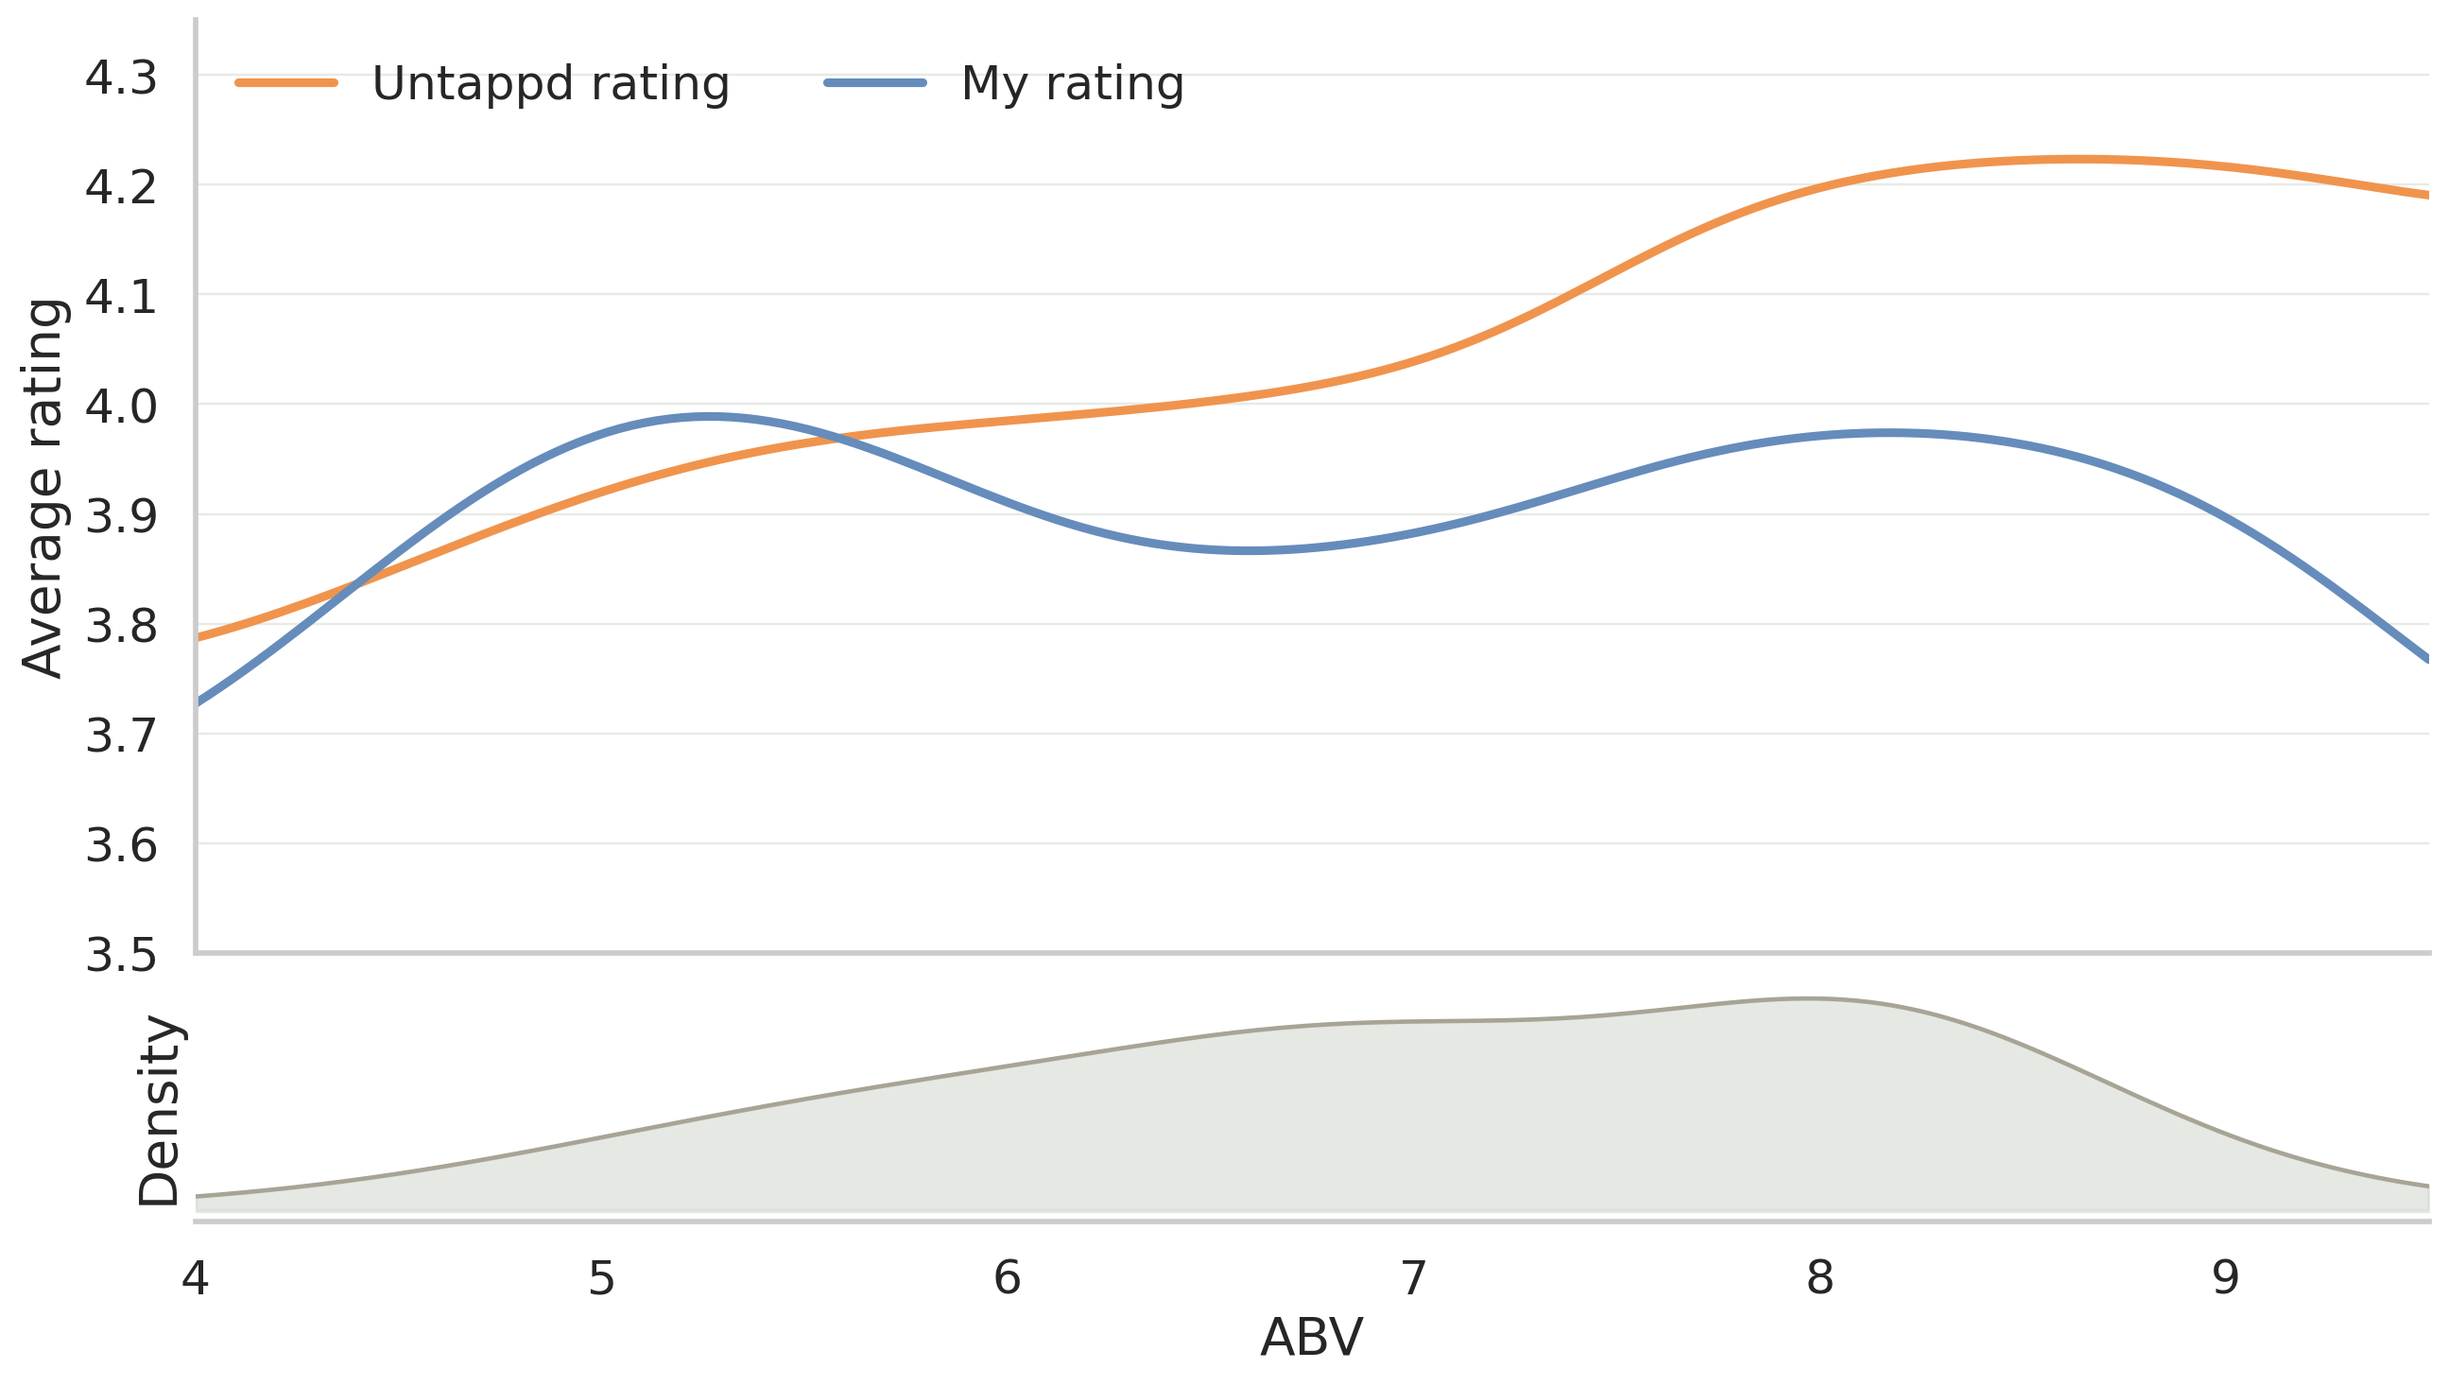
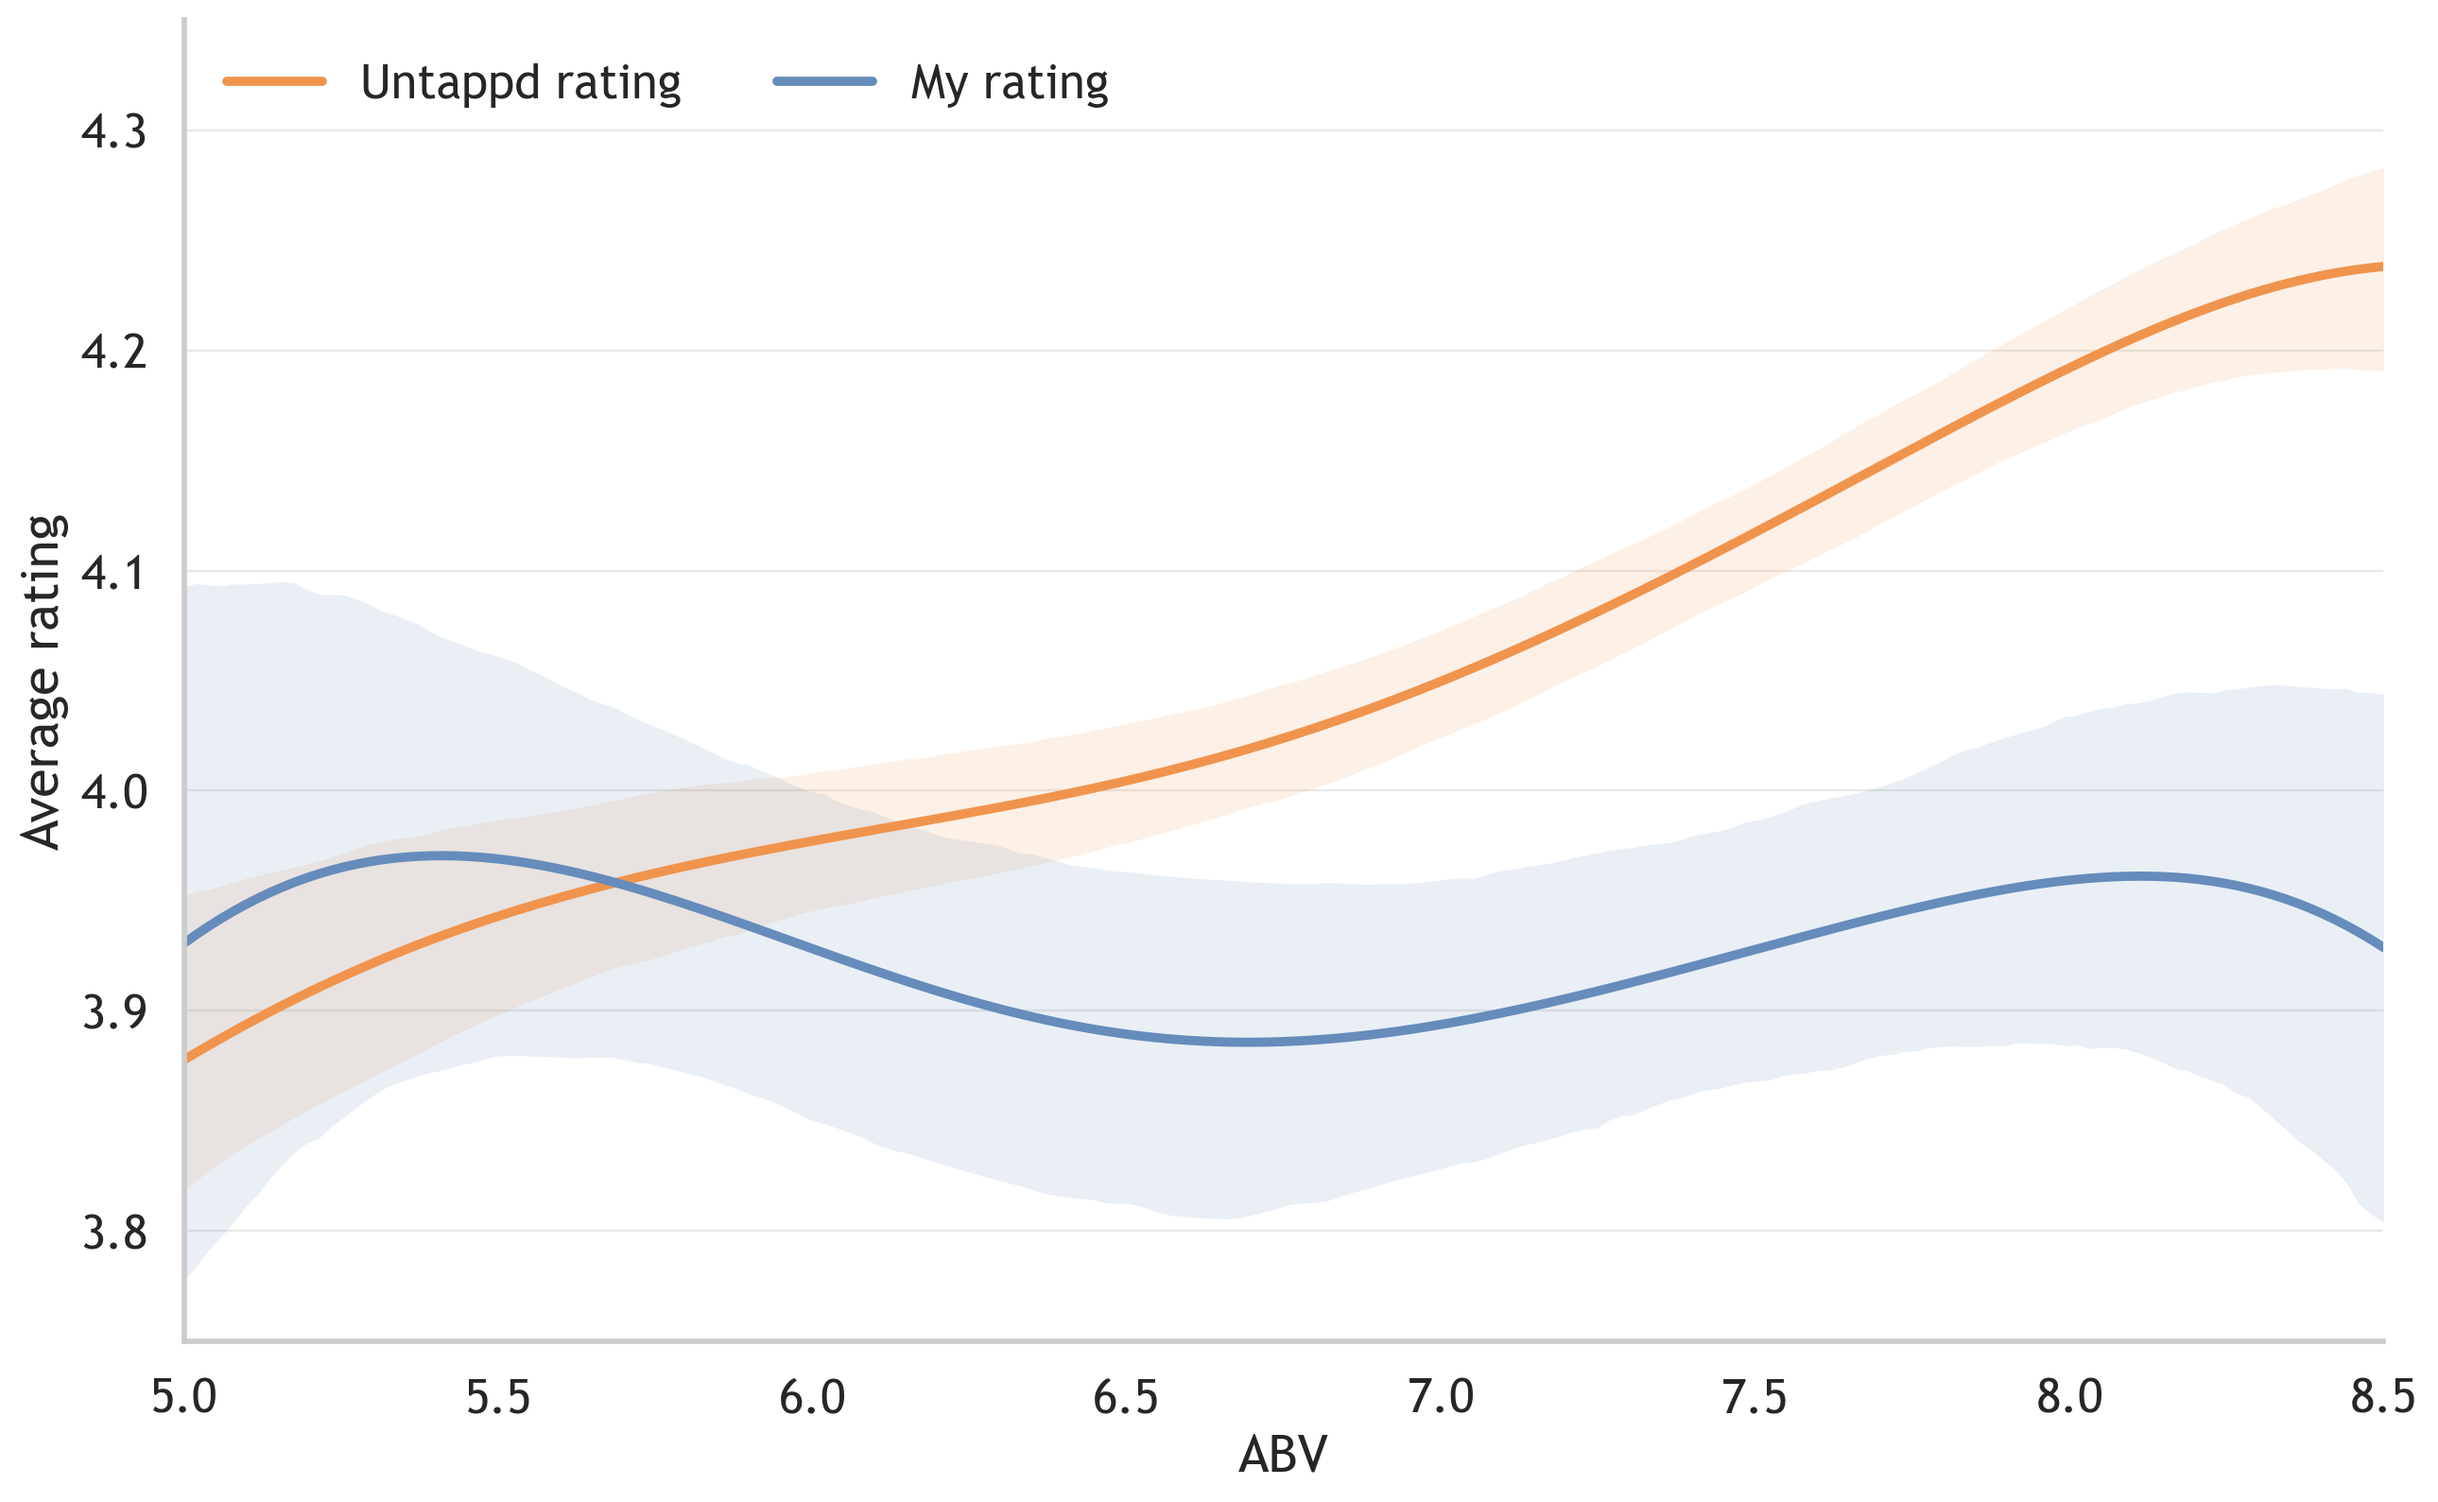
updates

diff --git a/scripts/main.js b/scripts/main.js
@@ -586,13 +586,22 @@ async function initializeMap() {
 
     const map = L.map('map', { zoomControl: false, maxZoom: 20 });
     L.control.zoom({ position: 'topright' }).addTo(map);
+
+    const cartoBasemapKey = 'cb1_4l0f_1_ec9eddce62f2d90a023a36a4';
+    const cartoBasemapUrl = (style) =>
+        `https://basemaps.cartocdn.com/rastertiles/${style}/{z}/{x}/{y}{r}.png?key=${cartoBasemapKey}`;
+
     L.tileLayer(
-        'https://basemaps.cartocdn.com/rastertiles/light_all/{z}/{x}/{y}{r}.png?key=cb1_4l0f_1_ec9eddce62f2d90a023a36a4',
+        cartoBasemapUrl('light_nolabels'),
         {
             maxZoom: 20,
             attribution: '&copy; <a href="https://www.openstreetmap.org/copyright">OpenStreetMap</a> contributors &copy; <a href="https://carto.com/attributions">CARTO</a>'
         }
     ).addTo(map);
+    L.tileLayer(cartoBasemapUrl('light_only_labels'), {
+        minZoom: 6,
+        maxZoom: 20
+    }).addTo(map);
     map.setView([34.8, -96], 4);
 
     const customIconPizza = L.icon({

diff --git a/html/charts.html b/html/charts.html
@@ -54,8 +54,7 @@
             <h2 id="abv-premium-title">The Untappd ABV Premium</h2>
           </header>
           <figure class="analysis-figure">
-            <img src="../images/hoppy_ratings_by_abv.png" alt="Kernel-smoothed personal and Untappd average ratings by alcohol by volume, with the distribution of rated beer strengths" />
-            <figcaption>Kernel-smoothed averages for all hop-forward beers (IPAs and Pale Ales). The density panel shows where observations are concentrated; estimates are less stable at the edges.</figcaption>
+            <img src="../images/hoppy_ratings_by_abv.png" alt="" />
           </figure>
         </section>
 

diff --git a/scripts/sync_untappd_content.py b/scripts/sync_untappd_content.py
@@ -93,7 +93,10 @@ MIN_BEERS_FOR_VORB = 3
 MIN_STYLE_BEERS_FOR_VORB = 2
 MIN_BEERS_FOR_RATING_DIFFERENCE = 15
 VORB_REPLACEMENT_RATING = 3.75
-ABV_KERNEL_BANDWIDTH = 0.52
+ABV_LOCAL_LINEAR_BANDWIDTH = 0.70
+ABV_DISPLAY_QUANTILES = (0.05, 0.95)
+ABV_BOOTSTRAP_DRAWS = 1_000
+ABV_BOOTSTRAP_SEED = 20261014
 GEOCODING_DELAY_SECONDS = 0.25
 
 BEER_NAME_CORRECTIONS = {
@@ -116,7 +119,6 @@ C_BLUE = "xkcd:faded blue"
 C_ORANGE = "xkcd:faded orange"
 C_GREY = "xkcd:charcoal grey"
 C_LIGHT_GREY = "xkcd:light grey"
-C_MID_GREY = "xkcd:greyish"
 C_BG = "none"
 
 sns.set_theme(style="whitegrid", context="talk")
@@ -1045,57 +1047,118 @@ def select_hoppy_beers(beers: pd.DataFrame) -> pd.DataFrame:
     return hoppy
 
 
-def gaussian_kernel_mean(
+def gaussian_local_linear_mean(
     x: np.ndarray, y: np.ndarray, grid: np.ndarray, bandwidth: float
-) -> tuple[np.ndarray, np.ndarray]:
-    weights = np.exp(-((grid[:, None] - x[None, :]) ** 2) / (2 * bandwidth**2))
-    smoothed = weights @ y / weights.sum(axis=1)
-    density = weights.sum(axis=1) / (
-        len(x) * bandwidth * np.sqrt(2 * np.pi)
+) -> np.ndarray:
+    offsets = x[None, :] - grid[:, None]
+    weights = np.exp(-(offsets**2) / (2 * bandwidth**2))
+    weight_sum = weights.sum(axis=1)
+    weighted_offset_sum = (weights * offsets).sum(axis=1)
+    weighted_offset_squared_sum = (weights * offsets**2).sum(axis=1)
+    weighted_rating_sum = weights @ y
+    weighted_offset_rating_sum = (weights * offsets) @ y
+    denominator = (
+        weight_sum * weighted_offset_squared_sum - weighted_offset_sum**2
     )
-    return smoothed, density
+    return (
+        weighted_offset_squared_sum * weighted_rating_sum
+        - weighted_offset_sum * weighted_offset_rating_sum
+    ) / denominator
 
 
-def plot_abv_kernel_ratings(beers: pd.DataFrame, path: Path) -> None:
+def gaussian_local_linear_bootstrap_interval(
+    x: np.ndarray,
+    y: np.ndarray,
+    grid: np.ndarray,
+    bandwidth: float,
+    draws: int = ABV_BOOTSTRAP_DRAWS,
+    seed: int = ABV_BOOTSTRAP_SEED,
+) -> tuple[np.ndarray, np.ndarray]:
+    offsets = x[None, :] - grid[:, None]
+    weights = np.exp(-(offsets**2) / (2 * bandwidth**2))
+    bootstrap_counts = np.random.default_rng(seed).multinomial(
+        len(x), np.full(len(x), 1 / len(x)), size=draws
+    )
+    weight_sum = bootstrap_counts @ weights.T
+    weighted_offset_sum = bootstrap_counts @ (weights * offsets).T
+    weighted_offset_squared_sum = bootstrap_counts @ (weights * offsets**2).T
+    weighted_rating_sum = bootstrap_counts @ (weights * y[None, :]).T
+    weighted_offset_rating_sum = (
+        bootstrap_counts @ (weights * offsets * y[None, :]).T
+    )
+    denominator = (
+        weight_sum * weighted_offset_squared_sum - weighted_offset_sum**2
+    )
+    bootstrap_fits = (
+        weighted_offset_squared_sum * weighted_rating_sum
+        - weighted_offset_sum * weighted_offset_rating_sum
+    ) / denominator
+    return tuple(np.quantile(bootstrap_fits, [0.025, 0.975], axis=0))
+
+
+def plot_abv_local_linear_ratings(beers: pd.DataFrame, path: Path) -> None:
     hoppy = select_hoppy_beers(beers)
     abv = hoppy["ABV Number"].to_numpy()
-    grid = np.linspace(4, 9.5, 180)
-    personal, density = gaussian_kernel_mean(
+    abv_min, abv_max = np.quantile(abv, ABV_DISPLAY_QUANTILES)
+    grid = np.linspace(abv_min, abv_max, 180)
+    personal = gaussian_local_linear_mean(
         abv,
         hoppy["My Rating"].to_numpy(),
         grid,
-        ABV_KERNEL_BANDWIDTH,
+        ABV_LOCAL_LINEAR_BANDWIDTH,
     )
-    untappd, _ = gaussian_kernel_mean(
+    personal_low, personal_high = gaussian_local_linear_bootstrap_interval(
+        abv,
+        hoppy["My Rating"].to_numpy(),
+        grid,
+        ABV_LOCAL_LINEAR_BANDWIDTH,
+    )
+    untappd = gaussian_local_linear_mean(
         abv,
         hoppy["Untappd Rating"].to_numpy(),
         grid,
-        ABV_KERNEL_BANDWIDTH,
+        ABV_LOCAL_LINEAR_BANDWIDTH,
+    )
+    untappd_low, untappd_high = gaussian_local_linear_bootstrap_interval(
+        abv,
+        hoppy["Untappd Rating"].to_numpy(),
+        grid,
+        ABV_LOCAL_LINEAR_BANDWIDTH,
     )
 
-    fig = plt.figure(figsize=(12, 7.5))
-    grid_spec = fig.add_gridspec(2, 1, height_ratios=[4, 1], hspace=0.06)
-    ax = fig.add_subplot(grid_spec[0])
-    density_ax = fig.add_subplot(grid_spec[1], sharex=ax)
-
-    ax.plot(grid, untappd, color=C_ORANGE, linewidth=3, label="Untappd rating")
-    ax.plot(grid, personal, color=C_BLUE, linewidth=3, label="My rating")
+    fig, ax = plt.subplots(figsize=(12, 7.5))
+    ax.fill_between(
+        grid,
+        untappd_low,
+        untappd_high,
+        color=C_ORANGE,
+        alpha=0.14,
+        linewidth=0,
+    )
+    ax.fill_between(
+        grid,
+        personal_low,
+        personal_high,
+        color=C_BLUE,
+        alpha=0.14,
+        linewidth=0,
+    )
+    ax.plot(grid, untappd, color=C_ORANGE, linewidth=3.2, label="Untappd rating")
+    ax.plot(grid, personal, color=C_BLUE, linewidth=3.2, label="My rating")
     ax.set_ylabel("Average rating")
-    ax.set_ylim(3.5, 4.35)
-    ax.tick_params(axis="x", labelbottom=False)
+    ax.set_xlabel("ABV")
+    interval_min = min(personal_low.min(), untappd_low.min())
+    interval_max = max(personal_high.max(), untappd_high.max())
+    ax.set_ylim(
+        np.floor((interval_min - 0.02) * 20) / 20,
+        np.ceil((interval_max + 0.02) * 20) / 20,
+    )
+    ax.set_xlim(grid.min(), grid.max())
     ax.grid(True, axis="y", color=C_LIGHT_GREY, linewidth=0.8, alpha=0.6)
     ax.grid(False, axis="x")
     ax.legend(loc="upper left", frameon=False, ncol=2)
-    density_ax.fill_between(grid, density, color=C_LIGHT_GREY, alpha=0.65)
-    density_ax.plot(grid, density, color=C_MID_GREY, linewidth=1.5)
-    density_ax.set_xlabel("ABV")
-    density_ax.set_ylabel("Density")
-    density_ax.set_yticks([])
-    density_ax.grid(False)
-    density_ax.spines["left"].set_visible(False)
-    density_ax.set_xlim(grid.min(), grid.max())
 
-    fig.subplots_adjust(left=0.09, right=0.985, top=0.88, bottom=0.11, hspace=0.08)
+    plt.tight_layout()
     fig.savefig(path, bbox_inches="tight", transparent=True)
     plt.close(fig)
 
@@ -1154,7 +1217,7 @@ def stage_outputs(
         plot_rating_differences(
             beers, images_dir / "rating_difference_by_style.png"
         )
-        plot_abv_kernel_ratings(
+        plot_abv_local_linear_ratings(
             beers, images_dir / "hoppy_ratings_by_abv.png"
         )
 

diff --git a/tests/test_sync_untappd_content.py b/tests/test_sync_untappd_content.py
@@ -6,6 +6,7 @@ import unittest
 from pathlib import Path
 from unittest.mock import patch
 
+import numpy as np
 import pandas as pd
 import requests
 
@@ -256,6 +257,34 @@ class UntappdSyncTests(unittest.TestCase):
             ],
         )
         self.assertEqual(hoppy["ABV Number"].tolist(), [4.5, 10.0, 5.5])
+
+    def test_hoppy_chart_uses_exact_central_ninety_percent(self):
+        hoppy = SYNC.select_hoppy_beers(self.beers)
+        bounds = np.quantile(
+            hoppy["ABV Number"].to_numpy(), SYNC.ABV_DISPLAY_QUANTILES
+        )
+
+        self.assertEqual(SYNC.ABV_DISPLAY_QUANTILES, (0.05, 0.95))
+        np.testing.assert_array_equal(bounds, [5.0, 8.5])
+
+    def test_local_linear_bootstrap_interval_is_reproducible_and_contains_fit(self):
+        x = np.array([4.0, 5.0, 6.0, 7.0, 8.0])
+        y = np.array([3.2, 3.6, 3.8, 4.0, 4.3])
+        grid = np.linspace(4.0, 8.0, 9)
+        fit = SYNC.gaussian_local_linear_mean(x, y, grid, 0.75)
+        low, high = SYNC.gaussian_local_linear_bootstrap_interval(
+            x, y, grid, 0.75, draws=250, seed=12
+        )
+        repeated_low, repeated_high = (
+            SYNC.gaussian_local_linear_bootstrap_interval(
+                x, y, grid, 0.75, draws=250, seed=12
+            )
+        )
+
+        np.testing.assert_array_equal(low, repeated_low)
+        np.testing.assert_array_equal(high, repeated_high)
+        self.assertTrue((low < fit).all())
+        self.assertTrue((fit < high).all())
 
     def test_style_vorb_rankings_are_sorted_and_finite(self):
         for family in ["IPAs+", "Lagers+"]:
